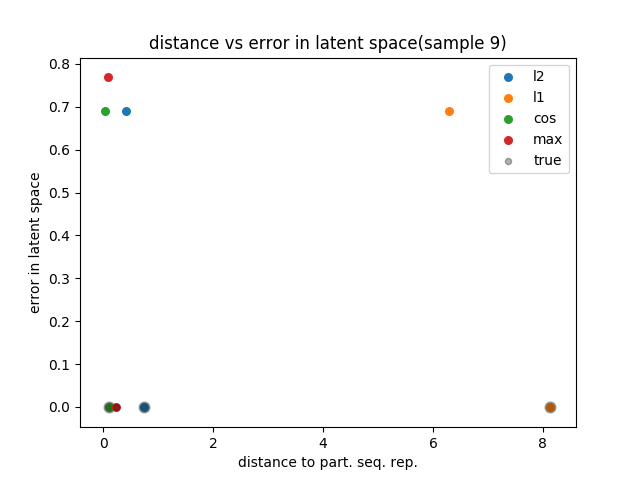
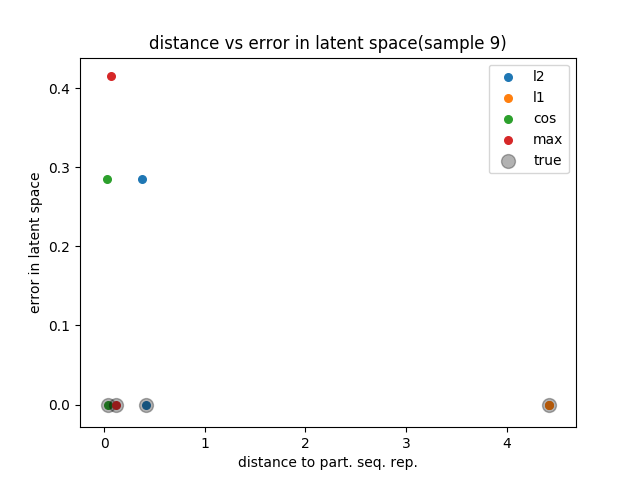
added

diff --git a/RNN/utils/association_evaluation.py b/RNN/utils/association_evaluation.py
@@ -475,6 +475,11 @@ def plot_best_distance_function(model, data, data_iterator, n=50):
 	enc = metrics.__get_latent_reps(model.encoder, data[idx], model.MODEL_CODE, n=model.hierarchies)
 	N = 4
 
+	avg_error_raw = np.zeros(N)
+	avg_error_lat = np.zeros(N)
+	avg_dist_part = np.zeros(N)
+	avg_dist_comp = np.zeros(N)
+
 	# score = np.zeros((N,n))
 	# for i in range(N):
 	# 	for j in range(n):
@@ -515,9 +520,11 @@ def plot_best_distance_function(model, data, data_iterator, n=50):
 				dists[k] = metrics.__distance__(ls[w_i[k]], z_true, mode=i)
 			plt.scatter(dists, errors, label=dist_name, s=30)
 			if i == N-1:
-				plt.scatter(dists[:1], errors[:1], c='black', alpha='0.3', s=100, label='true')
+				plt.scatter(dists[:1], errors[:1], c='black', alpha='0.3', s=100, label='closest')
 			else:
 				plt.scatter(dists[:1], errors[:1], c='black', alpha='0.3', s=100)
+			avg_error_raw[i] += errors[0]
+			avg_dist_comp[i] += dists[0]
 
 		plt.legend()
 		plt.xlabel('distance to comp. seq. rep.')
@@ -536,6 +543,8 @@ def plot_best_distance_function(model, data, data_iterator, n=50):
 				plt.scatter(dists[-1:], errors[-1:], c='black', alpha='0.3', s=100, label='true')
 			else:
 				plt.scatter(dists[-1:], errors[-1:], c='black', alpha='0.3', s=100)
+			avg_error_lat[i] += errors[0]
+			avg_dist_part[i] += dists[0]
 
 		plt.legend()
 		plt.xlabel('distance to part. seq. rep.')
@@ -544,6 +553,15 @@ def plot_best_distance_function(model, data, data_iterator, n=50):
 		plt.savefig('../new_out/__plot_best_distance_function_%d-2.png'%(j))
 		plt.close()
 
+	tot = N*n
+	print 'Avg error in raw space'
+	print avg_error_raw / tot
+	print 'Avg error in latent space'
+	print avg_error_lat / tot
+	print 'Avg distance to partial seq'
+	print avg_dist_part / tot
+	print 'Avg distance to complete seq'
+	print avg_dist_comp / tot
 	# error = np.zeros(n)
 	# for i in range(N):
 	# 	pred = metrics.__get_decoded_reps(model.decoder, new_e[i], model.MODEL_CODE)
